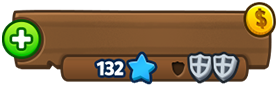
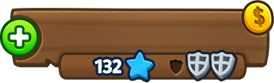
Add files via upload

Changed region(s): [[0.0, 0.0, 1.0, 0.988], [0.6715, 0.7952, 0.7007, 0.8916], [0.146, 0.6988, 0.1752, 0.7711]]

diff --git a/css/style.css b/css/style.css
@@ -26,8 +26,8 @@ a {
     font-family: 'Passion One', cursive;
 }
 #logo{
-    width: 120px;
-    height: 120px;
+    width: 110px;
+    height: 116px;
     background: url('../img/logo.png') no-repeat center;
     background-size: contain;
     -webkit-background-size: contain;
@@ -36,23 +36,22 @@ a {
     -webkit-transform-origin: 0 0;
     -ms-transform-origin: 0 0;
     transform-origin: 0 0;
-    transform: scale(0.585938);
 }
 #score__bar{
-    width: 281px;
-    height: 87px;
+    width: 274px;
+    height: 83px;
     background: url('../img/bar.png') no-repeat center;
     background-size: contain;
     -webkit-background-size: contain;
     font-size: 35pt;
     color: #ffe302;
-    text-shadow: 1px 1px 2px #100a05;
+    font-weight: 400;
+    text-shadow: 2px 2px 2px #100a05;
     text-align: center;
-    line-height: 73px;
+    line-height: 66px;
     right: 1%;
     top: 1%;
-    -webkit-transform-origin: 0 0;
-    -ms-transform-origin: 0 0;
-    transform-origin: 0 0;
-    transform: scale(0.585938);
+    -webkit-transform-origin: top right;
+    -ms-transform-origin: top right;
+    transform-origin: top right;
 }
